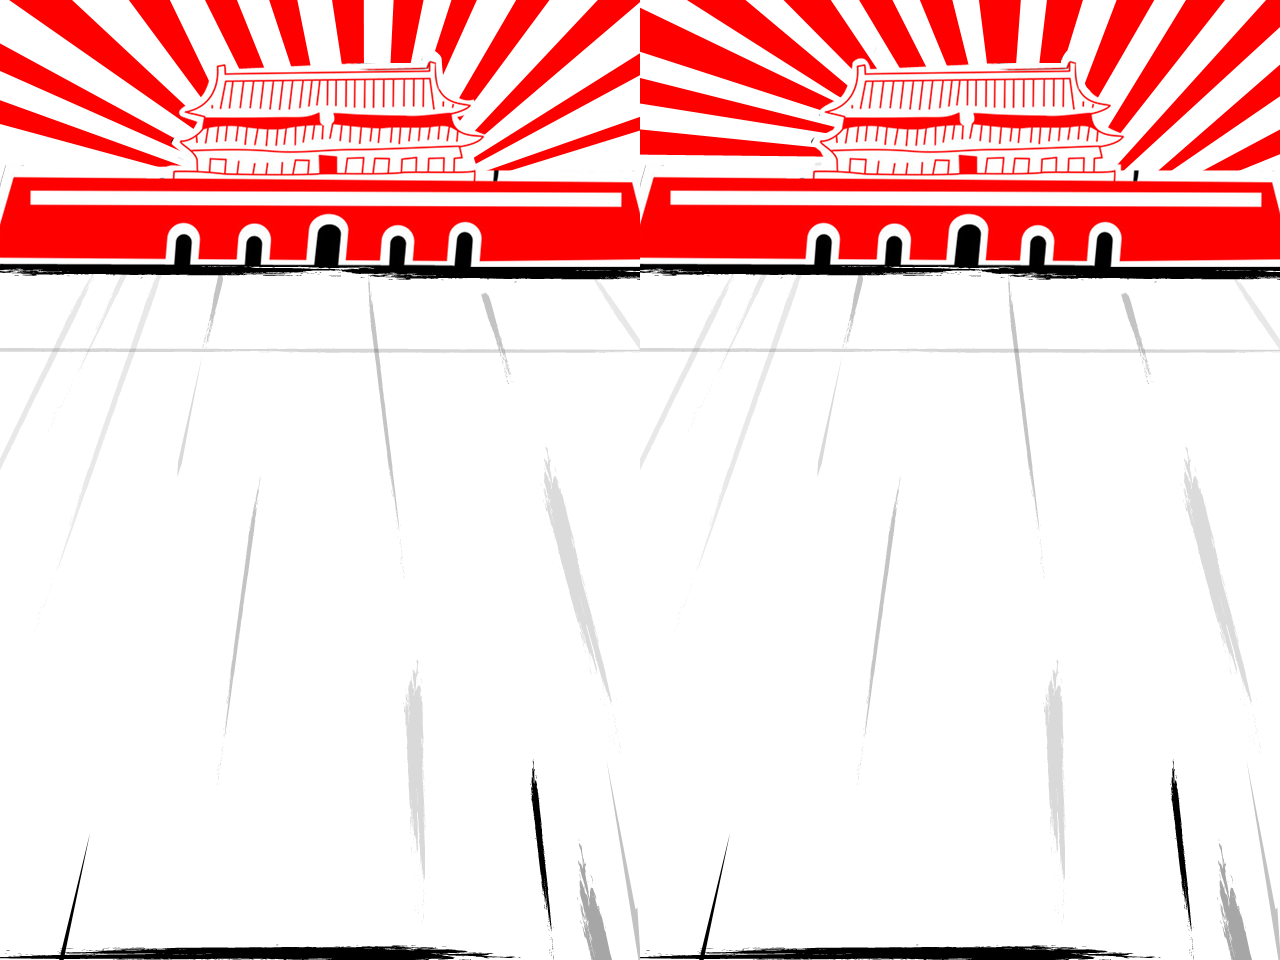
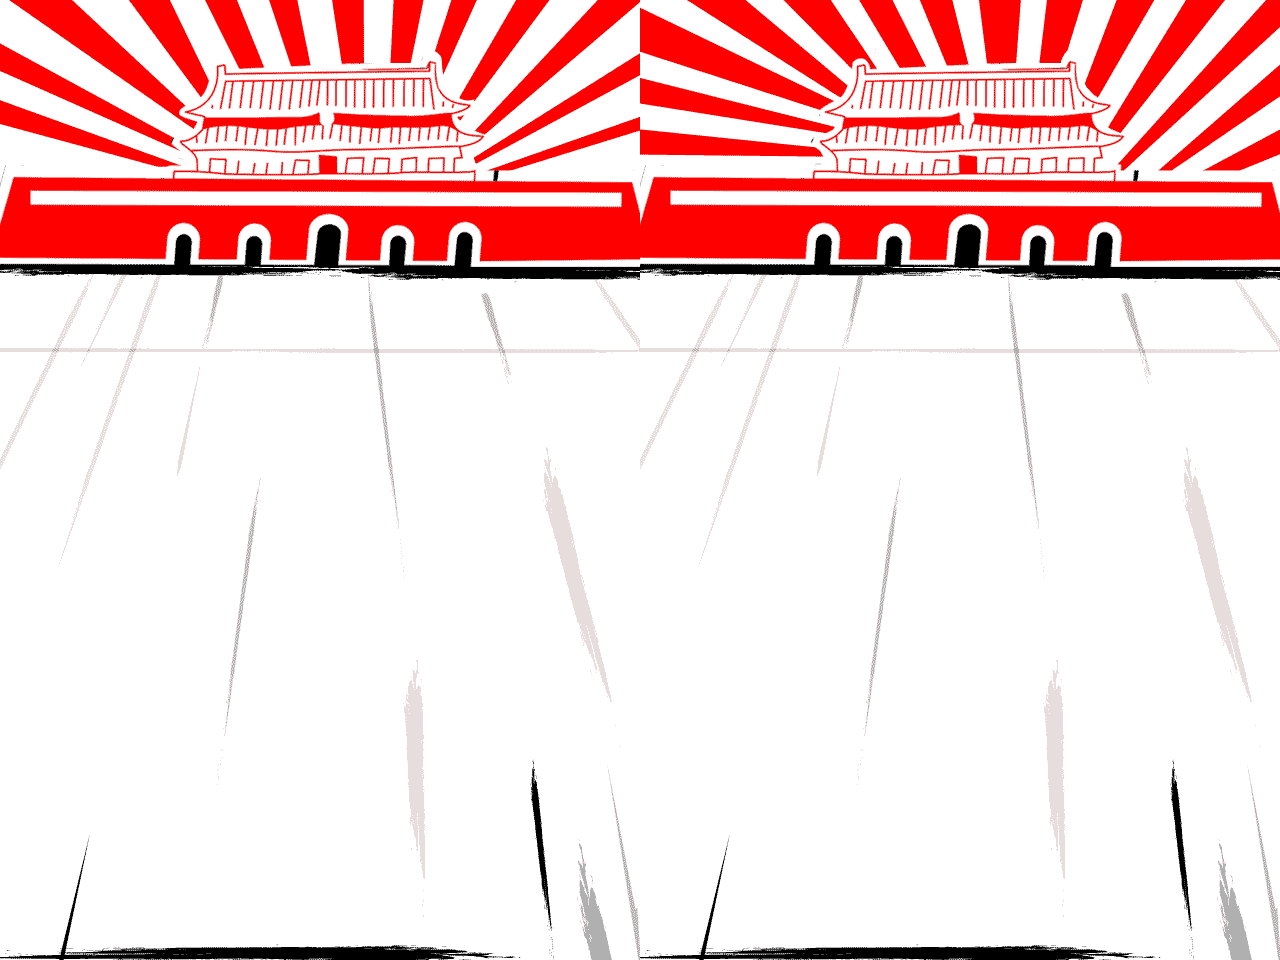
add foot`s image

diff --git a/static/script/index.js b/static/script/index.js
@@ -1,14 +1,14 @@
 var img = {}, sound = {},
     imgsrc = [
         "hongxing",
-        "wood_1s_b",
-        "wood_1s_f",
+        //"wood_1s_b",
+        //"wood_1s_f",
         "wood_1b",
-        "wood_2s_b",
-        "wood_2s_f",
+        //"wood_2s_b",
+        //"wood_2s_f",
         "wood_2b",
-        "wood_3s_b",
-        "wood_3s_f",
+        //"wood_3s_b",
+        //"wood_3s_f",
         "wood_3b",
         "bose_s_0",
         "bose_s_1",
@@ -28,10 +28,12 @@ var img = {}, sound = {},
         "wood_1_walk",
         "wood_2_walk",
         "wood_3_walk",
-        "foot",
         "btn123",
         "btn123_w",
+        "foot_l_a",
+        "foot_r_a",
         "interval",
+        "role_arrow",
         "kulou",
         "selected"
 
@@ -124,43 +126,84 @@ function initWooder(){
                 clickArea = 'left';
             }
 
-            if(clickAreaRecord.length === 0){
-                clickAreaRecord.push(clickArea);
-            }else if(clickAreaRecord.length === 1){
-                if(clickAreaRecord[0] !== clickArea){
-                    //发送一个点击信息。
-//                console.log(Role.id);
-                    socket.emit('walk',{'roleId' : Role.id});
+            UI["walk_" + clickArea + "_start"] && UI["walk_" + clickArea + "_start"](); 
+
+
+            if(clickArea){
+                if(clickAreaRecord.length === 0){
+                    clickAreaRecord.push(clickArea);
+                }else if(clickAreaRecord.length === 1){
+                    if(clickAreaRecord[0] !== clickArea){
+                        //发送一个点击信息。
+    //                console.log(Role.id);
+                        socket.emit('walk',{'roleId' : Role.id});
+                        clickAreaRecord = [];
+                    }
+                }else{
                     clickAreaRecord = [];
                 }
-            }else{
-                clickAreaRecord = [];
             }
+
         },false);
-    }else{
-        document.onkeypress = function(e){
+
+        d_canvas.addEventListener('touchend', function(){
+
+            var point  = {};
+            point.x = e.targetTouches[0].pageX;
+            point.y = e.targetTouches[0].pageY;
+
             var clickArea;
-            switch(e.charCode){
-                case 97:
+
+            if(point.x > d_canvas.width/2){
+                clickArea = 'right';
+            }else{
+                clickArea = 'left';
+            }
+
+            UI["walk_" + clickArea + "_end"] && UI["walk_" + clickArea + "_end"](); 
+
+        })
+    }else{
+        document.onkeydown = function(e){
+            var clickArea;
+            switch(e.keyCode){
+                case 65:
                     clickArea = 'left';
                     break;
-                case 100:
+                case 68:
                     clickArea = 'right';
                     break;
             }
+            UI["walk_" + clickArea + "_start"] && UI["walk_" + clickArea + "_start"](); 
 
-            if(clickAreaRecord.length === 0){
-                clickAreaRecord.push(clickArea);
-            }else if(clickAreaRecord.length === 1){
-                if(clickAreaRecord[0] !== clickArea){
-                    //发送一个点击信息。
-//                console.log(Role.id);
-                    socket.emit('walk',{'roleId' : Role.id});
-                    clickAreaRecord = [];
-                }
-            }else{
-                clickAreaRecord = [];
+        };
+        document.onkeyup = function(e){
+            var clickArea;
+            switch(e.keyCode){
+                case 65:
+                    clickArea = 'left';
+                    break;
+                case 68:
+                    clickArea = 'right';
+                    break;
             }
+            UI["walk_" + clickArea + "_end"] && UI["walk_" + clickArea + "_end"](); 
+
+            if(clickArea){
+                if(clickAreaRecord.length === 0){
+                    clickAreaRecord.push(clickArea);
+                }else if(clickAreaRecord.length === 1){
+                    if(clickAreaRecord[0] !== clickArea){
+                        //发送一个点击信息。
+    //                console.log(Role.id);
+                        socket.emit('walk',{'roleId' : Role.id});
+                        clickAreaRecord = [];
+                    }
+                }else{
+                    clickAreaRecord = [];
+                }                
+            }
+
         };
 
     }

diff --git a/static/script/face.js b/static/script/face.js
@@ -278,16 +278,25 @@ function prepareScene(){
     scene.main.alert = [];
 
 
-    scene.main.foot = new Bitmap(img.foot);
-    scene.main.foot.x = 0;
-    scene.main.foot.y = 650;
-    //scene.main.foot.visible = false;
-    scene.main.addChild(scene.main.foot);
+    scene.main.foot_l = new Bitmap(img.foot_l_a);
+    scene.main.foot_l.x = 0;
+    scene.main.foot_l.y = 650;
+    scene.main.foot_l.alpha = 0.6;
+    scene.main.foot_l.visible = false;
+    scene.main.addChild(scene.main.foot_l);
+
+    scene.main.foot_r = new Bitmap(img.foot_r_a);
+    scene.main.foot_r.x = 640-203;
+    scene.main.foot_r.y = 650;
+    scene.main.foot_r.alpha = 0.6;
+    scene.main.foot_r.visible = false;
+    scene.main.addChild(scene.main.foot_r);
 
 
     scene.main.time = new Bitmap(img.interval);
     scene.main.time.regX = 64;
     scene.main.time.x = 320;
+
     scene.main.addChild(scene.main.time);
 
     scene.main.timestep = new Text("", "48px bold Arial", "#FFF");
@@ -621,7 +630,38 @@ function addBoss(){
     faceman.visible = false;
     scene.main.addChild(faceman);
 
+    console.log("dffd " + Role.id)
+    if(Role.id === "boss"){
+
+
+
+        bossMan.arrow = new Bitmap(img.role_arrow);
+        bossMan.arrow.regX = 24;
+        bossMan.arrow.regY = 0;
+
+        bossMan.arrow.x = 320;
+        bossMan.arrow.y = 110;
+        bossMan.arrow.shadow = new Shadow("#454", 0, 0, 4);
+        scene.main.addChild(bossMan.arrow);
+        
+        (function(){
+                if( bossMan.arrow.regY == 20){
+                    bossMan.arrow.anim("regY", 0, 60, arguments.callee);
+                }
+                else{
+                    bossMan.arrow.anim("regY", 20, 60, arguments.callee);
+                }
+                
+
+            
+        })();
+
+    }
+
     bossHasInit = true;
+
+
+
 
     console.log("Boss come in! attention.")
 }
@@ -673,6 +713,29 @@ function addWood(n){
     woodMan[n].face.regY = 196;
     woodMan[n].face.visible = false;
 
+//console.log("role.id " +  Role.id)
+    if(Role.id == (n + 1)){
+        woodMan[n].arrow = new Bitmap(img.role_arrow);
+        woodMan[n].arrow.regX = 24;
+        woodMan[n].arrow.regY = 240;
+
+        woodMan[n].arrow.x = 100 + 210*n;
+        woodMan[n].arrow.y = 940;
+        woodMan[n].arrow.shadow = new Shadow("#454", 0, 0, 4);
+        scene.main.addChild(woodMan[n].arrow);
+        
+        (function(){
+                if( woodMan[n].arrow.regY == 260){
+                    woodMan[n].arrow.anim("regY", 240, 60, arguments.callee);
+                }
+                else{
+                    woodMan[n].arrow.anim("regY", 260, 60, arguments.callee);
+                }
+                
+
+            
+        })();
+    }
 
     /*
     var backman = new Bitmap(woodMan[n].img.small_back);
@@ -756,9 +819,9 @@ function showWood(n, dis, noAni){
 //设置图形显示属性
 function setWood(n, type, value){
     if(woodMan[n].face && woodMan[n].back){
-
-        woodMan[n].face[type] = woodMan[n].face[type] = 
-        woodMan[n].back[type] = woodMan[n].back[type] = value;
+        
+        woodMan[n].face[type] =  
+        woodMan[n].back[type] = value;
     }
 
 }
@@ -771,6 +834,7 @@ function setWoodAnim(n, type, value, animTime, execCallback){
         woodMan[n].back.stop();
     } : null);
     woodMan[n].face.anim(type, value, animTime);
+    woodMan[n].arrow && woodMan[n].arrow.anim(type, value, animTime)
 }
 
 //获取参数
@@ -843,6 +907,11 @@ function bossStartLR(){
 }
 
 function showAlert123(i){
+
+    if(Role.id === "boss"){
+        hideAlert123();
+        return;
+    }
 
     addAlert123();
 

diff --git a/static/script/cfg.js b/static/script/cfg.js
@@ -278,6 +278,14 @@ var UI = {
      * @param {String|Number} name 角色id，“boss”｜0｜1｜2
      */
     roleSelete : function(name){
+        if(name !== "boss"){
+            scene.main.foot_r.visible = true;
+            scene.main.foot_l.visible = true;
+
+
+        }
+        Role.id = "boss";
+
         //some code...
         switch(name){
             case 'boss' :
@@ -307,6 +315,24 @@ var UI = {
     },
     time:function(num){
         setTimestep(num);
+    },
+    //行走的视觉提示
+    walk_right_start:function(){
+        scene.main.foot_r.alpha = 1;
+        scene.main.addChild(scene.main.foot_r);
+    },
+    walk_left_start:function(){
+        scene.main.foot_l.alpha = 1;
+        scene.main.addChild(scene.main.foot_l);
+    },
+        //行走的视觉提示
+    walk_right_end:function(){
+        scene.main.foot_r.alpha = 0.6;
+        scene.main.addChild(scene.main.foot_r);
+    },
+    walk_left_end:function(){
+        scene.main.foot_l.alpha = 0.6;
+        scene.main.addChild(scene.main.foot_l);
     }
 }
 

diff --git a/app-server/app.js b/app-server/app.js
@@ -42,6 +42,7 @@ app.listen(3000, function(){
 
 var sio = io.listen(app);
 var sockets = sio.sockets;
+var GAME_TIME = 45;
 var Timer = null;
 var Finish = null;
 
@@ -79,7 +80,7 @@ sockets.on('connection',function(socket){
 			console.log("init gameParams");
 			//init gameParams
 			gameParams = {
-					config:{stepLength:2,watchTimeLimit:4,gameTimeLimit:30},
+					config:{stepLength:2,watchTimeLimit:4,gameTimeLimit:GAME_TIME},
 					gameStatus:{winner:0,currentTime:0,status:3,lastWalkId:0,lastWalkRoleId:0,turnLock:false},
 					role:{
 				      	1:{name:'role1',source:'01'},
